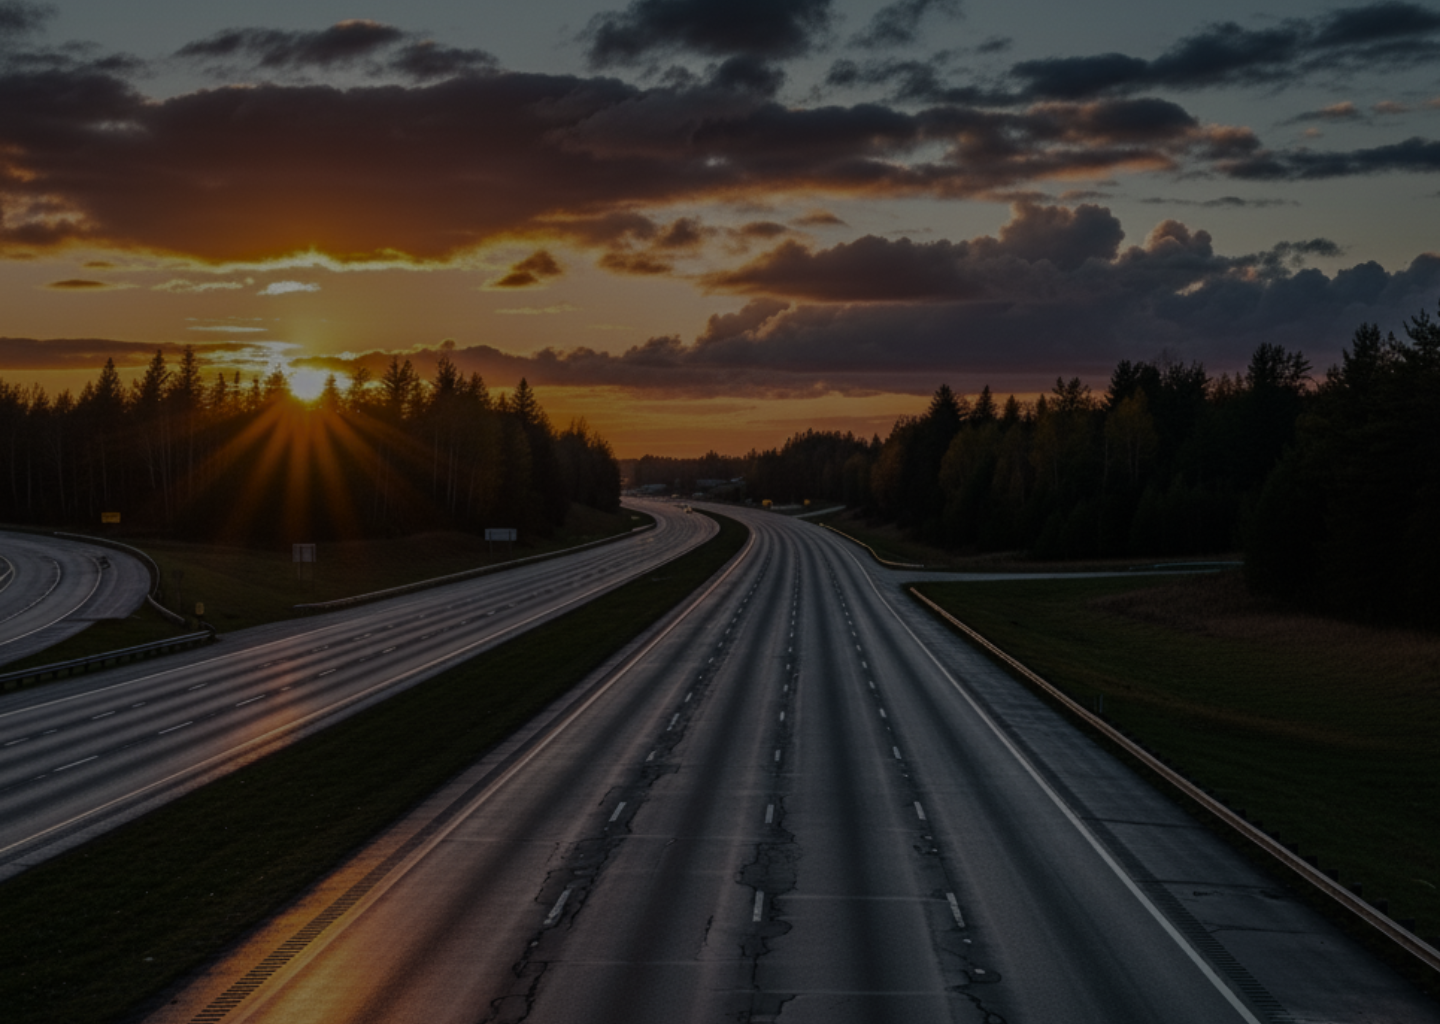
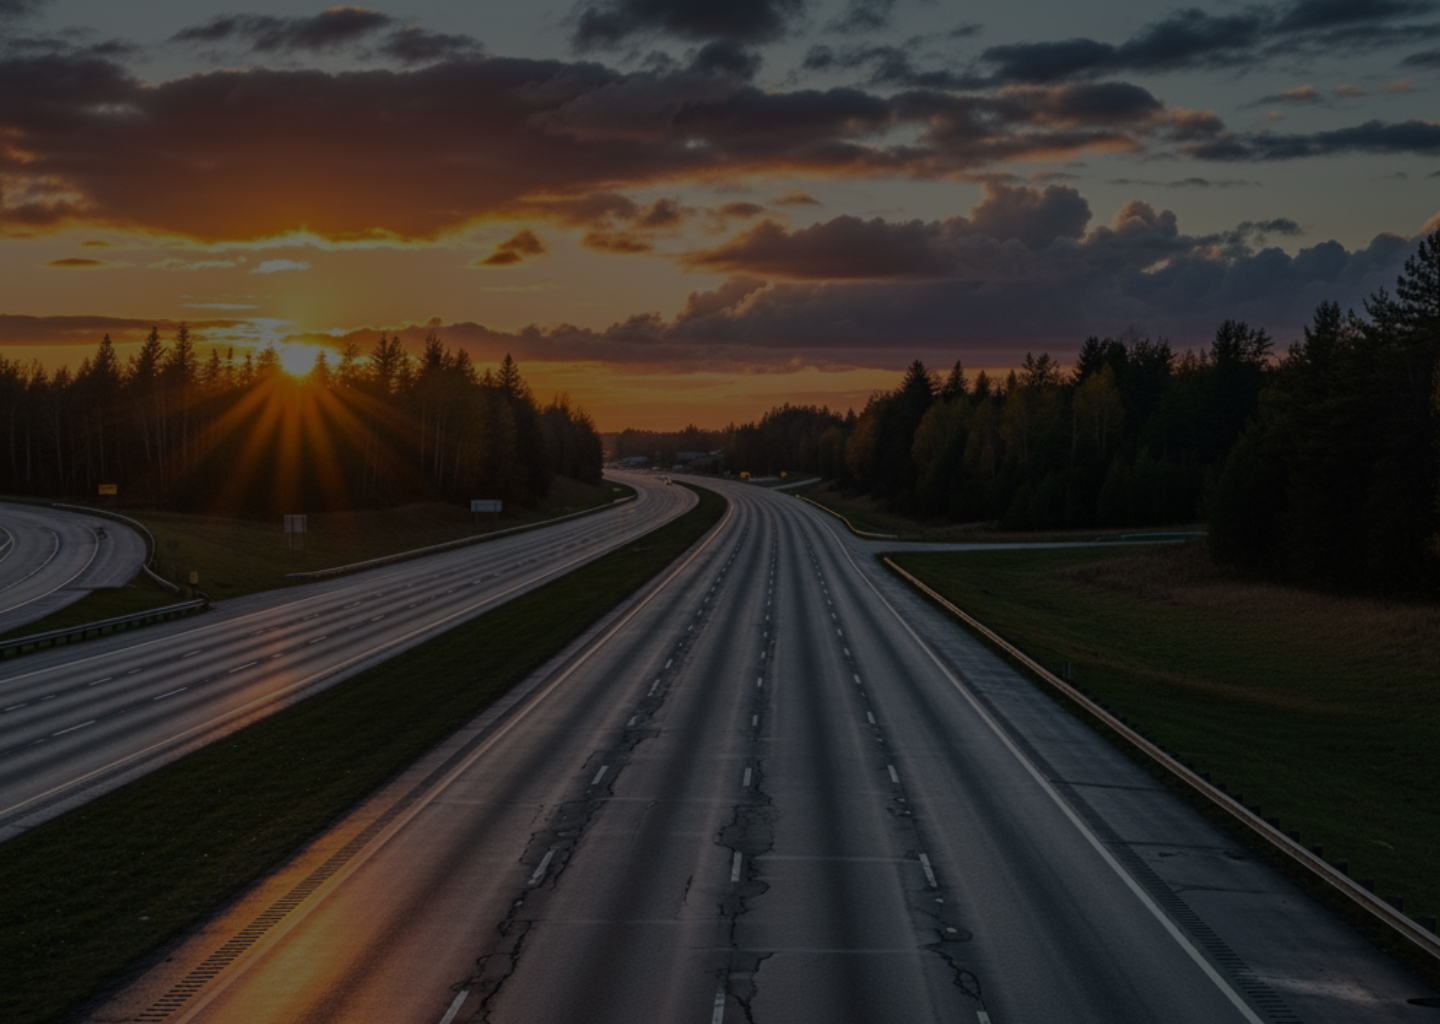
Cadastro, efeitos, home

diff --git a/Projeto/public/CSS/index.css b/Projeto/public/CSS/index.css
@@ -35,15 +35,10 @@ section nav {
   top: 0;
   left: 0;
   width: 100%;
-  /* Ocupa toda a largura */
   display: flex;
   justify-content: center;
   align-items: center;
-  padding: 1rem 0;
-  background-color: transparent;
-  /* 🔹 Remove a cor de fundo */
-  backdrop-filter: none;
-  /* 🔹 Nenhum efeito de desfoque */
+  background-color: rgba(0, 0, 0, 0.219);
   z-index: 999;
   /* Mantém acima de tudo */
 }
@@ -59,27 +54,33 @@ nav ul {
 
 nav ul li {
   list-style-type: none;
-  font-size: 30px;
+  font-size: 25px;
 }
 
 nav ul li a {
+  display: inline-block;
   text-decoration: none;
   color: white;
   padding: 0.3rem 1.25rem;
   white-space: nowrap;
-  transition: color 0.3s ease;
+  transition: background-color 0.3s ease, transform 0.3s ease;
 }
 
+
 nav ul li a:hover {
-  color: var(--verde-claro);
+   transform: scale(1.04); 
+
+
 }
 
 /* APRESENTAÇÃO */
 #section_apresentacao {
-  background: url(../Imagens/bg1.png) no-repeat center center / cover;
+  background: url(../Imagens/bg2.png) no-repeat center center / cover;
   width: 100%;
   height: 100vh;
 }
+
+
 
 #centro {
   display: flex;
@@ -101,8 +102,12 @@ nav ul li a:hover {
   border-radius: 8px;
 }
 
+.btns-selecao:hover {
+   background-color: rgba(0, 0, 0, 0.219);
+}
+
 h1 {
-  font-size: 6.875rem;
+  font-size: 5rem;
   color: white;
 }
 
@@ -116,8 +121,10 @@ h1 {
 }
 
 #centro p {
-  font-size: 2.125rem;
+  font-size: 2rem;
   color: white;
+  font-weight: 100 ;
+   font-stretch: condensed;
 }
 
 /* SEÇÕES DE CONTEÚDO */
@@ -269,7 +276,7 @@ h1 {
 }
 
 /* BOTÕES */
-#btn_contato,
+
 .btn_enviar {
   background-color: var(--amarelo);
   color: var(--preto);
@@ -281,7 +288,33 @@ h1 {
   text-align: center;
   text-decoration-line: none;
    cursor: pointer;
+      transition: background-color 0.3s ease, transform 0.3s ease;
 }
+
+.btn_enviar:hover {
+   transform: scale(1.04); 
+}
+
+
+#btn_contato {
+  background-color: var(--amarelo);
+  color: var(--preto);
+  padding: 1rem 3.5rem;
+  border-radius: 0.5rem;
+  font-weight: 700;
+  font-size: 1.8rem;
+  cursor: pointer;
+  text-align: center;
+  text-decoration: none;
+  display: inline-block;
+  transition: transform 0.3s ease;
+}
+
+#btn_contato:hover {
+  transform: scale(1.04);
+}
+
+
 
 /* FOOTER */
 footer {

diff --git a/Projeto/public/cadastro.html b/Projeto/public/cadastro.html
@@ -1,17 +1,39 @@
 <!DOCTYPE html>
-<html lang="pt-br">
+<html lang="pt-BR">
 
 <head>
-  <meta charset="UTF-8">
-  <meta name="viewport" content="width=device-width, initial-scale=1.0">
-  <title>Document</title>
+    <meta charset="UTF-8">
+    <meta name="viewport" content="width=device-width, initial-scale=1.0">
+    <link rel="stylesheet" href="CSS/cadastro.css">
+    <title>Tela de Cadastro</title>
 </head>
 
 <body>
-  <label for="input_nome">Nome: <input type="text" id="input_nome"></label>
-  <label for="input_email">E-mail: <input type="text" id="input_email"></label>
-  <label for="input_senha">Senha: <input type="text" id="input_senha"></label>
-  <button>Cadastrar</button>
-</body>
 
+    <a href="index.html" class="btn_voltar">Voltar</a>
+
+    <div class="div_cadastro">
+        <h3 class="logo_cadastro">Way<a class="cor_safe">Safe</a></h3>
+        <h1 class="text_cadastro">Cadastro</h1>
+
+        <div class="div_input_cadastro">
+            <h3 class="text_input">Nome:</h3>
+            <input type="text" class="input_cadastro" placeholder="Digite seu nome">
+
+            <h3 class="text_input">Email:</h3>
+            <input type="email" class="input_cadastro" placeholder="Digite seu email">
+
+            <h3 class="text_input">Telefone:</h3>
+            <input type="number" class="input_cadastro" placeholder="Digite seu telefone">
+
+            <h3 class="text_input">Senha:</h3>
+            <input type="password" class="input_cadastro" placeholder="Crie uma senha">
+
+            <button>Cadastrar</button>
+
+            <a class="conta" href="login.html">Já tenho uma conta</a>
+        </div>
+    </div>
+
+</body>
 </html>

diff --git a/Projeto/public/CSS/cadastro.css b/Projeto/public/CSS/cadastro.css
@@ -30,7 +30,7 @@ body {
 
 
 
-.div_login {
+.div_cadastro {
     z-index: 1; 
     background-color: rgba(0, 0, 0, 0.4);
     padding: 2rem;
@@ -40,7 +40,7 @@ body {
     width: 350px;
 }
 
-.logo_login {
+.logo_cadastro {
     color: white;
     font-size: 3rem;
     margin-bottom: 1rem;
@@ -50,13 +50,13 @@ body {
     color: var(--Verde-claro);
 }
 
-.text_login {
+.text_cadastro {
     font-size: 1.5rem;
     color: white;
     margin-bottom: 1.5rem;
 }
 
-.div_input_login {
+.div_input_cadastro {
     display: flex;
     flex-direction: column;
     align-items: center;
@@ -69,7 +69,7 @@ body {
     margin-left: 1rem;
 }
 
-.input_login {
+.input_cadastro {
     border: 2px solid white;
     background-color: rgba(255, 255, 255, 0.15);
     border-radius: 1rem;
@@ -81,11 +81,11 @@ body {
     outline: none;
 }
 
-.input_login::placeholder {
+.input_cadastro::placeholder {
     color: rgba(255, 255, 255, 0.7);
 }
 
-.input_login:hover {
+.input_cadastro:hover {
     border: 2px solid var(--Verde-claro);
 }
 

diff --git a/Projeto/public/index.html b/Projeto/public/index.html
@@ -36,8 +36,8 @@
       </ul>
     </nav>
     <div id="centro">
-      <h1>Way<span class="cor_safe">Safe</span></h1>
-      <p>Acompanhe em tempo real os principais dados sobre acidentes nas rodovias.</p>
+      <h1>Tenha maior <br> controle de rodovias</h1>
+      <p>Acompanhe em tempo real os principais dados <br> sobre acidentes nas rodovias.</p>
       <a href="" class="btn_enviar" class="btns_secundario">Saiba mais</a>
     </div>
   </section>
